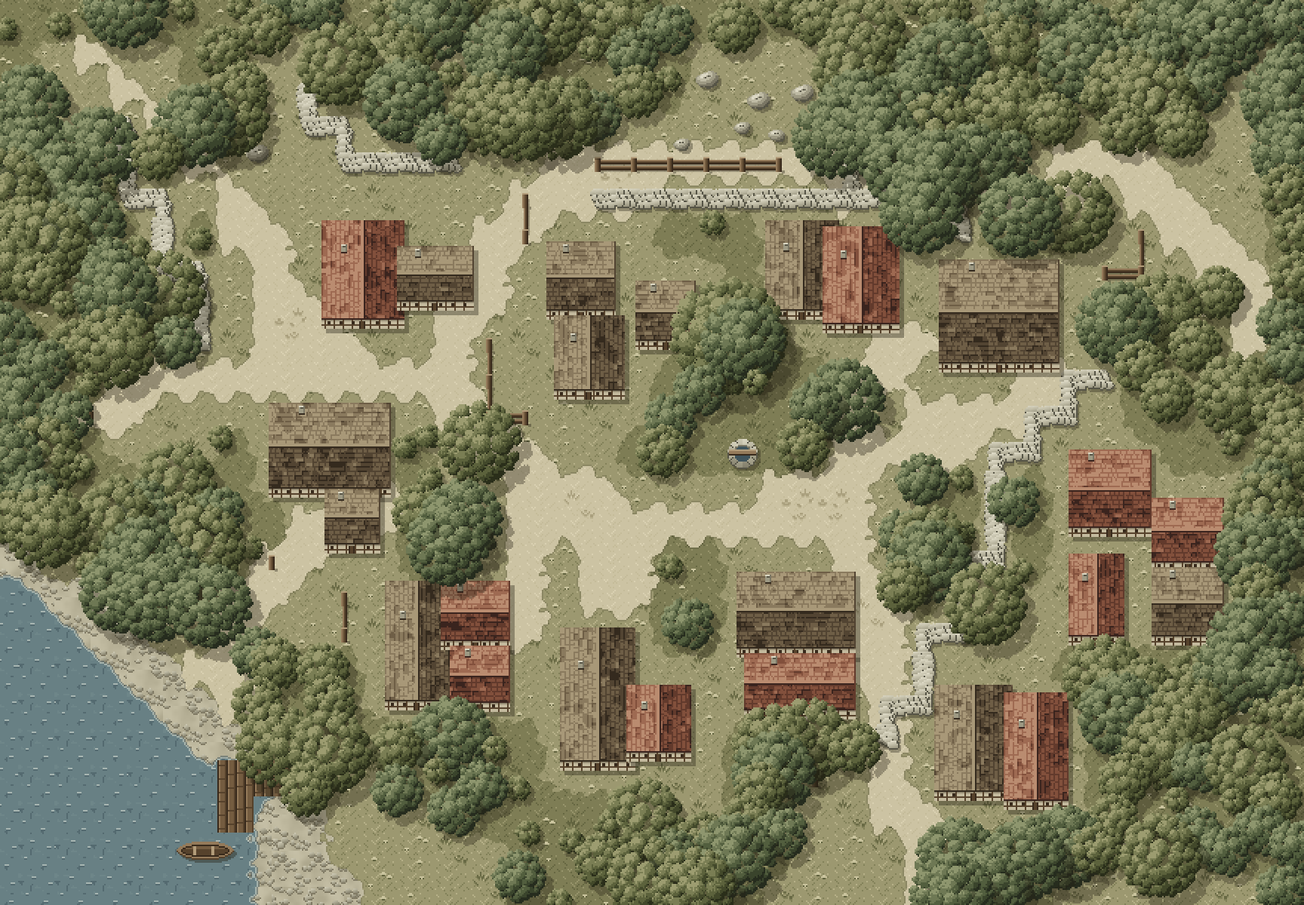
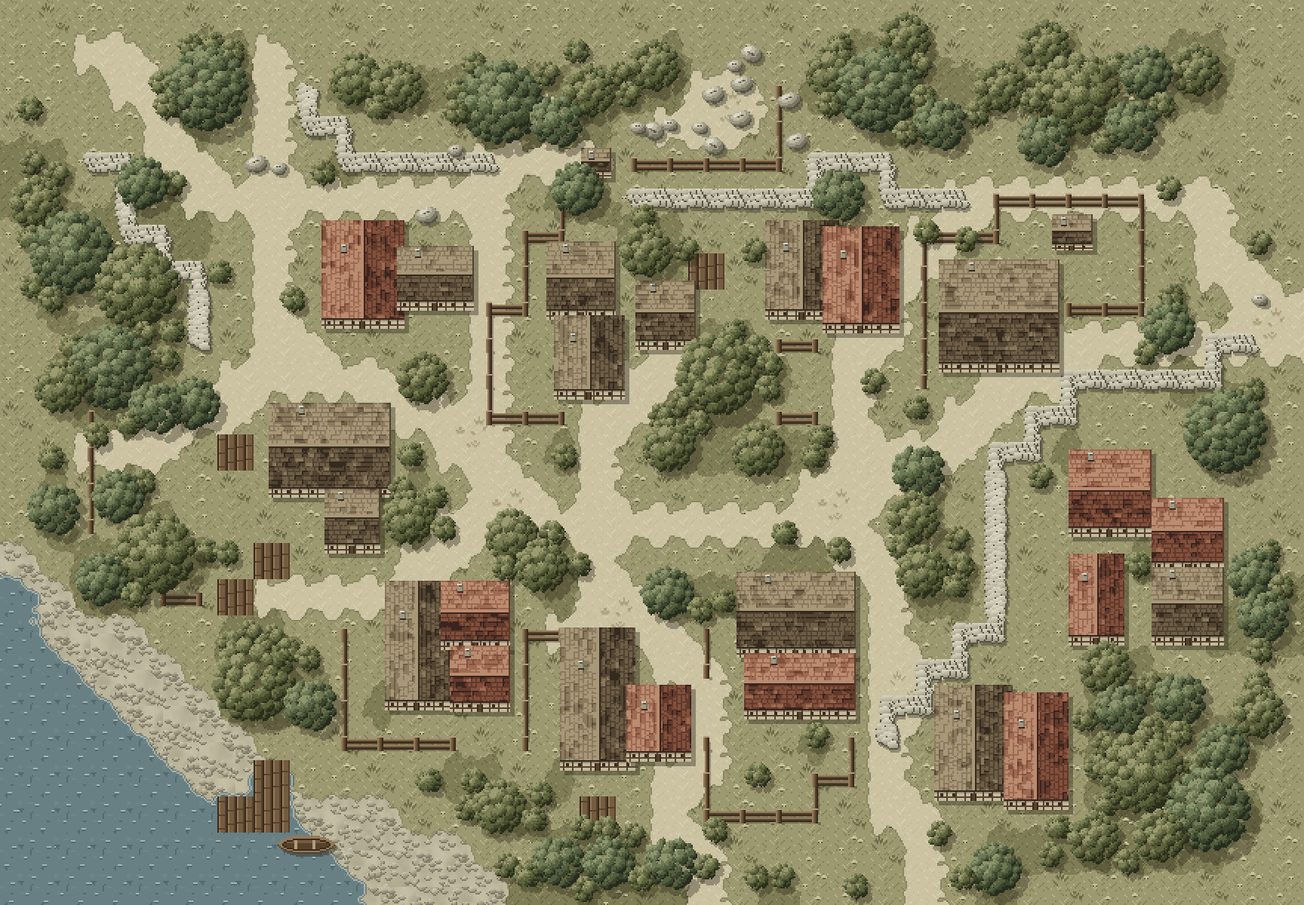
v4.62 — Cony Cirera calcat del mapa pintat
El mapa en píxel de Cony Cirera es torna a fer a partir del mapa pintat de la
wiki perquè el match cut del tauler de missions encaixi: cases, murs, tanques,
camins, pou, moll, barca, roques i cada arbre al mateix lloc que al pintat.
Fora el bosc repartit a l'atzar (hi havia massa arbres i tapaven el prat).

Claude-Session: https://claude.ai/code/session_01LkNSdR7VdcPetJYT6ejKYP

diff --git a/src/lib/places/conyberry.ts b/src/lib/places/conyberry.ts
@@ -11,7 +11,7 @@ export const CONYBERRY_PLACES: MissionPlace[] = [
     cols: 20,
     rows: 13,
     door: [12, 9],
-    back: [[12, 9], [12, 10], [14, 9], [11, 10], [12, 11]],
+    back: [[12, 9], [12, 10], [14, 9], [12, 11], [10, 10]],
     spawn: [[9, 10], [10, 10], [8, 11], [9, 11], [10, 11]],
     exit: [9, 11],
     walls: [48, 48, 480, 48, 528, 48, 912, 48, 96, 96, 288, 96, 336, 96, 432, 96, 576, 96, 864, 96, 288, 144, 336, 144, 864, 144, 912, 144, 288, 192, 336, 192, 864, 192, 912, 192, 48, 288, 192, 288, 240, 288, 480, 288, 528, 288, 576, 288, 864, 288, 912, 288, 96, 240, 192, 240, 240, 240, 288, 240, 336, 240, 432, 240, 48, 48, 48, 288, 480, 48, 480, 288, 528, 48, 528, 288, 912, 48, 912, 144, 912, 192, 912, 288, 96, 96, 96, 240, 288, 96, 288, 144, 288, 192, 288, 240, 336, 96, 336, 144, 336, 192, 336, 240, 432, 96, 432, 240, 576, 96, 576, 288, 864, 96, 864, 144, 864, 192, 864, 288, 192, 240, 192, 288, 240, 240, 240, 288, 312, 144, 312, 192, 888, 144, 888, 192, 192, 264, 240, 264],
@@ -27,7 +27,7 @@ export const CONYBERRY_PLACES: MissionPlace[] = [
     cols: 22,
     rows: 16,
     door: [16, 12],
-    back: [[16, 12], [15, 12], [16, 13], [14, 12], [15, 13]],
+    back: [[16, 12], [17, 12], [16, 13], [14, 12], [15, 13]],
     spawn: [[10, 14], [11, 14], [9, 14], [10, 15], [11, 15]],
     exit: [10, 14],
     walls: [48, 48, 1008, 48, 96, 96, 288, 96, 336, 96, 720, 96, 768, 96, 960, 96, 288, 144, 336, 144, 720, 144, 768, 144, 288, 192, 336, 192, 720, 192, 768, 192, 96, 240, 288, 240, 336, 240, 528, 240, 576, 240, 720, 240, 768, 240, 960, 240, 96, 288, 240, 288, 288, 288, 528, 288, 576, 288, 720, 288, 768, 288, 960, 288, 240, 336, 288, 336, 240, 384, 288, 384, 720, 384, 768, 384, 96, 432, 144, 432, 192, 432, 240, 432, 720, 432, 768, 432, 960, 432, 1008, 432, 96, 480, 144, 480, 192, 480, 240, 480, 960, 480, 1008, 480, 48, 624, 240, 624, 288, 624, 480, 624, 576, 624, 720, 624, 768, 624, 1008, 624, 96, 576, 240, 576, 768, 576, 960, 576, 240, 672, 480, 672, 576, 672, 768, 672, 48, 48, 48, 624, 1008, 48, 1008, 432, 1008, 480, 1008, 624, 96, 96, 96, 240, 96, 288, 96, 432, 96, 480, 96, 576, 288, 96, 288, 144, 288, 192, 288, 240, 288, 288, 288, 336, 288, 384, 288, 624, 336, 96, 336, 144, 336, 192, 336, 240, 720, 96, 720, 144, 720, 192, 720, 240, 720, 288, 720, 384, 720, 432, 720, 624, 768, 96, 768, 144, 768, 192, 768, 240, 768, 288, 768, 384, 768, 432, 768, 576, 768, 624, 768, 672, 960, 96, 960, 240, 960, 288, 960, 432, 960, 480, 960, 576, 528, 240, 528, 288, 576, 240, 576, 288, 576, 624, 576, 672, 240, 288, 240, 336, 240, 384, 240, 432, 240, 480, 240, 576, 240, 624, 240, 672, 144, 432, 144, 480, 192, 432, 192, 480, 480, 624, 480, 672, 312, 144, 312, 192, 744, 144, 744, 192, 528, 264, 576, 264, 264, 336, 264, 384, 744, 384, 744, 432, 144, 456, 192, 456, 984, 432, 984, 480, 480, 648, 528, 648, 528, 648, 576, 648],
@@ -59,7 +59,7 @@ export const CONYBERRY_PLACES: MissionPlace[] = [
     cols: 17,
     rows: 14,
     door: [6, 11],
-    back: [[6, 11], [5, 11], [6, 10], [4, 11], [5, 10]],
+    back: [[6, 11], [5, 11], [6, 10], [6, 12], [4, 11]],
     spawn: [[2, 8], [3, 8], [2, 9], [3, 9], [1, 9]],
     exit: [2, 12],
     walls: [48, 48, 768, 48, 96, 96, 384, 96, 432, 96, 720, 96, 384, 144, 432, 144, 384, 192, 528, 192, 576, 192, 720, 192, 384, 240, 528, 240, 576, 240, 720, 240, 384, 288, 432, 288, 48, 384, 144, 384, 240, 384, 336, 384, 384, 384, 480, 384, 528, 384, 768, 384, 96, 336, 144, 336, 192, 336, 336, 336, 432, 336, 720, 336, 192, 528, 288, 528, 336, 528, 528, 528, 240, 480, 288, 480, 336, 480, 480, 480, 48, 48, 48, 384, 768, 48, 768, 384, 96, 96, 96, 336, 384, 96, 384, 144, 384, 192, 384, 240, 384, 288, 384, 384, 432, 96, 432, 144, 432, 288, 432, 336, 720, 96, 720, 192, 720, 240, 720, 336, 528, 192, 528, 240, 528, 384, 528, 528, 576, 192, 576, 240, 144, 336, 144, 384, 192, 336, 192, 528, 336, 336, 336, 384, 336, 480, 336, 528, 240, 384, 240, 480, 480, 384, 480, 480, 288, 480, 288, 528, 408, 144, 408, 192, 528, 216, 576, 216, 408, 240, 408, 288, 144, 360, 192, 360, 336, 360, 384, 360, 288, 504, 336, 504],
@@ -75,7 +75,7 @@ export const CONYBERRY_PLACES: MissionPlace[] = [
     cols: 16,
     rows: 14,
     door: [18, 22],
-    back: [[18, 22], [19, 22], [22, 22], [22, 23], [21, 24]],
+    back: [[18, 22], [17, 22], [18, 23], [16, 22], [19, 23]],
     spawn: [[3, 12], [4, 12], [5, 12], [3, 13], [4, 13]],
     exit: [4, 12],
     walls: [48, 48, 384, 48, 96, 96, 336, 96, 384, 192, 624, 192, 96, 240, 192, 240, 240, 240, 336, 240, 384, 240, 576, 240, 96, 288, 192, 288, 240, 288, 336, 288, 336, 336, 384, 336, 336, 384, 384, 384, 384, 432, 576, 432, 384, 480, 624, 480, 48, 576, 192, 576, 240, 576, 384, 576, 96, 528, 192, 528, 240, 528, 336, 528, 48, 48, 48, 576, 384, 48, 384, 192, 384, 240, 384, 336, 384, 384, 384, 432, 384, 480, 384, 576, 96, 96, 96, 240, 96, 288, 96, 528, 336, 96, 336, 240, 336, 288, 336, 336, 336, 384, 336, 528, 624, 192, 624, 480, 192, 240, 192, 288, 192, 528, 192, 576, 240, 240, 240, 288, 240, 528, 240, 576, 576, 240, 576, 432, 192, 264, 240, 264, 360, 336, 360, 384, 192, 552, 240, 552],
@@ -91,7 +91,7 @@ export const CONYBERRY_PLACES: MissionPlace[] = [
     cols: 21,
     rows: 15,
     door: [24, 16],
-    back: [[24, 16], [24, 15], [24, 17], [24, 14], [24, 18]],
+    back: [[24, 16], [24, 15], [24, 17], [25, 17], [24, 14]],
     spawn: [[9, 10], [10, 10], [9, 11], [10, 11], [9, 12]],
     exit: [9, 13],
     walls: [192, 48, 816, 48, 240, 96, 768, 96, 768, 144, 816, 144, 768, 192, 816, 192, 192, 480, 432, 480, 576, 480, 624, 480, 672, 480, 768, 480, 240, 432, 432, 432, 528, 432, 624, 432, 672, 432, 768, 432, 528, 672, 816, 672, 576, 624, 768, 624, 192, 48, 192, 480, 816, 48, 816, 144, 816, 192, 816, 672, 240, 96, 240, 432, 768, 96, 768, 144, 768, 192, 768, 432, 768, 480, 768, 624, 432, 432, 432, 480, 528, 432, 528, 672, 624, 432, 624, 480, 672, 432, 672, 480, 576, 480, 576, 624, 792, 144, 792, 192, 432, 456, 480, 456, 480, 456, 528, 456, 624, 456, 672, 456],
@@ -107,7 +107,7 @@ export const CONYBERRY_PLACES: MissionPlace[] = [
     cols: 22,
     rows: 14,
     door: [24, 21],
-    back: [[24, 21], [23, 21], [24, 22], [23, 22], [24, 23]],
+    back: [[24, 21], [24, 22], [23, 22], [24, 23], [21, 21]],
     spawn: [[4, 11], [5, 11], [6, 11], [4, 12], [5, 12]],
     exit: [5, 12],
     walls: [48, 48, 576, 48, 96, 96, 288, 96, 336, 96, 528, 96, 288, 144, 336, 144, 576, 144, 1008, 144, 96, 192, 144, 192, 192, 192, 384, 192, 432, 192, 528, 192, 576, 192, 960, 192, 96, 240, 144, 240, 192, 240, 384, 240, 432, 240, 528, 240, 528, 336, 576, 336, 528, 384, 576, 384, 48, 528, 240, 528, 288, 528, 720, 528, 816, 528, 1008, 528, 96, 480, 240, 480, 288, 480, 528, 480, 576, 480, 720, 480, 816, 480, 960, 480, 48, 48, 48, 528, 576, 48, 576, 144, 576, 192, 576, 336, 576, 384, 576, 480, 96, 96, 96, 192, 96, 240, 96, 480, 288, 96, 288, 144, 288, 480, 288, 528, 336, 96, 336, 144, 528, 96, 528, 192, 528, 240, 528, 336, 528, 384, 528, 480, 1008, 144, 1008, 528, 144, 192, 144, 240, 192, 192, 192, 240, 384, 192, 384, 240, 432, 192, 432, 240, 960, 192, 960, 480, 240, 480, 240, 528, 720, 480, 720, 528, 816, 480, 816, 528, 312, 144, 312, 192, 144, 216, 192, 216, 384, 216, 432, 216, 552, 336, 552, 384, 240, 504, 288, 504, 720, 504, 768, 504, 768, 504, 816, 504],

diff --git a/src/constants/index.ts b/src/constants/index.ts
@@ -1,7 +1,7 @@
 import type { Condition, Element, SpellType } from '@/types';
 
 // Versió de l'aplicació que es mostra a les pantalles de DM i jugador.
-export const APP_VERSION = 'v4.61';
+export const APP_VERSION = 'v4.62';
 
 // Estats oficials de D&D 5e, en l'ordre de la làmina de referència.
 // Cada estat porta el seu **color propi** (abans eren gairebé tots vermells/grisos):

diff --git a/scripts/mission-conyberry.py b/scripts/mission-conyberry.py
@@ -4,12 +4,19 @@ Mapa de la missió de Conyberry (app Píxel), fet amb el full de poble (`scripts
 
     python3 scripts/mission-conyberry.py      # escriu `public/missions/conyberry/mapa.png`
 
-Recrea el mapa pintat de la campanya (el poble, el llac, els murs de pedra seca i el bosc) a
-36 × 25 caselles de 48 px. Tot el que hi ha és aquí, a mà, per poder-lo anar polint:
-  - `GRID`: el terra de cada casella (`.` prat, `F` bosc, `p` camí, `s` còdols, `w` aigua, `d` moll);
-  - murs i tanques (caselles, s'enllacen soles amb els veïns), cases (rectangles en píxels
-    d'art, 24 per casella, amb el color de la teulada), pou, barca, roques i arbres solts.
-Els arbres del bosc es reparteixen sols a les caselles `F` (llavor fixa: sempre surt igual).
+Recrea el mapa pintat de la campanya (`src/missions/assets/map-cony-cirera.webp` de la wiki) a
+36 × 25 caselles de 48 px. ⚠ Tot ha de caure **al mateix lloc** que al mapa pintat: el tauler de
+missions de la wiki passa de l'un a l'altre amb una onada de caselles (el «match cut») i qualsevol
+cosa desplaçada salta. Les mides es van prendre amb el pintat reduït a 1728 × 1200 i una graella
+de 48 px a sobre (1 px d'art = 2 px de mapa).
+  - `GRID`: el terra de cada casella (`.` prat, `F` herba fosca sota els arbres, `p` camí,
+    `s` còdols, `w` aigua, `d` moll);
+  - murs i tanques (caselles, s'enllacen soles amb els veïns), cases (rectangles en píxels d'art,
+    24 per casella, amb el color de la teulada), taulons, pou, barca i roques;
+  - `TREES`: cada arbre on és al pintat (centre en px d'art; `L` gran, `M` mitjà, `b` mata).
+    Es van treure de les taques d'arbres del pintat (una sola vegada, fora d'aquest script) i
+    es poden polir a mà. ⚠ Res de bosc repartit a l'atzar: el bosc de la v4.52–v4.61 omplia
+    totes les caselles `F` i tapava el prat, els murs i els camins que es veuen al pintat.
 La missió (on és la colla, l'ajust de color de les figuretes…) és a `src/lib/missions.ts`.
 """
 import importlib.util, os
@@ -23,35 +30,53 @@ V = importlib.util.module_from_spec(_spec); _spec.loader.exec_module(V)
 A = V.A
 
 GRID = """
-FFFFFFFFFFFFFFFFFFFFFFFFFFFFFFFFFFFF
-F.p..FF..FF...FFFFF....FFFFFFFFFFF.F
-F..p.FF..FFFFFFFFFF....FFFFFFFFFFF.F
-F...pFF.....FFFFF......FFFFFFFFFF..F
-FFF.Fp.........ppppppppp.FFF.ppp...F
-FFF...p.......pppp.....p...ppp.pp..F
-FFFF.Fpp.....pp...FFF....F.FFF..pp.F
-FFFF...p.....p......F............ppF
-FFFFF..pp...pp......F...........FFpF
-FFFFF..ppp..p.......FF..pp.....FFFpF
-FFFpppppppppp.....FFFFFpp...pp.FFFFF
-FFpp........pp....FFFFFp.pppp..FFFFF
-FFF...F....F.pp..FFFFFFpppp.....FFFF
-FFFFFFF...pF..ppp....ppp..F.F......F
-FFFFFFFFpppF..pppppppppp.FF.F......F
-s.FFFFFpp..FF.p.ppFF...p.F..F.....FF
-wssFFFpp......p.ppFF...ppF.F......FF
-wwss..p.......p...FF...pp.........FF
-wwwssppFFF.............pp....FFFFFFF
-wwwwsspFFF..............p.....FFFFFF
-wwwwwssFFFFFFFF.....FFFFp.....FFFFFF
-wwwwwwddF..FFFF.....FF..p.....FFFFFF
-wwwwwwdss...FFFFFF..FF..pp....FFFFFF
-wwwwwwwss.....FFFFFFFF...pFFFFFFFFFF
-wwwwwwwsss....FFFFFFF....pFFF......F
+....................................
+..pp.FFp..........F....FFF..FF..FF..
+...ppFFp.FFFFFFFFFFpp.FFFFFFFFFFFF..
+....pF.p.....FFFF.ppp...FFF..FFF....
+FF..pp.p.F...pppp...................
+FF.FFppppppppp.FF.....FF..pppppppp..
+.FFFFF.p.....p...FF......pp......p..
+.FFFF..p.....p....F.....pp.......pp.
+.F.FF..p.....p..........p.......F.pp
+..FFF..pp....p....pFF..pp....ppppppp
+.FFFF.pppppF.p...ppFFF.p...ppp..FF..
+..FFppp...pppp..ppFFF..p..pp.....FF.
+..ppp.......pp.Fp.FFFFFpppp..F...FF.
+.F.F.......F.pp.p.....pppF..........
+.F..F.....FFpppppppppppp.F..........
+s.FFFF.....pp.FFp....FFppFF....F....
+wsFF...ppppp...FppFFF.F.pFF.......FF
+wsss..FF.......pppp.....p........FFF
+wwsss.FFF..FF.....pp....pp....FF....
+wwwsssFFF.F........p....pp....FFF.F.
+wwwwsss............p..F.p.....FFFFF.
+wwwwwssd....FF.F..pp....p.....FFFF..
+wwwwwwddsss..FF...p.....pp....FFFFF.
+wwwwwwwwwssss..FFFpp.....p.FFFFFFF..
+wwwwwwwwwwssssFFFFFp.F...p.F........
 """.strip().splitlines()
-WALLS = [(2, 3), (3, 3), (3, 4), (3, 5), (4, 5), (4, 6), (4, 7), (5, 7), (5, 8), (5, 9), (8, 2), (8, 3), (9, 3), (9, 4), (10, 4), (11, 4), (12, 4), (16, 5), (17, 5), (18, 5), (19, 5), (20, 5), (21, 5), (22, 5), (23, 4), (23, 5), (24, 4), (24, 5), (24, 19), (24, 20), (25, 5), (25, 17), (25, 18), (25, 19), (26, 5), (26, 6), (26, 15), (26, 16), (26, 17), (27, 12), (27, 13), (27, 14), (27, 15), (28, 11), (28, 12), (29, 10), (29, 11), (30, 10)]
-FENCES = [(2, 11), (7, 15), (9, 16), (9, 17), (13, 9), (13, 10), (13, 11), (14, 5), (14, 6), (14, 11), (16, 4), (17, 4), (18, 4), (19, 4), (20, 4), (21, 4), (22, 21), (30, 7), (31, 6), (31, 7)]
+WALLS = [
+    (2, 4), (3, 4), (3, 5), (3, 6), (4, 6), (4, 7), (5, 7), (5, 8), (5, 9),                       # el llarg de l'oest
+    (8, 2), (8, 3), (9, 3), (9, 4), (10, 4), (11, 4), (12, 4), (13, 4),                            # dalt a l'esquerra
+    (17, 5), (18, 5), (19, 5), (20, 5), (21, 5), (22, 5), (22, 4), (23, 4), (24, 4), (24, 5), (25, 5), (26, 5),   # dalt
+    (34, 9), (33, 9), (33, 10), (32, 10), (31, 10), (30, 10), (29, 10), (29, 11), (28, 11), (28, 12), (27, 12),
+    (27, 13), (27, 14), (27, 15), (27, 16), (27, 17), (26, 17), (26, 18), (25, 18), (25, 19), (24, 19), (24, 20),   # de l'est (s'atura abans de la porta de l'hostal, a (24, 21))
+]
+FENCES = [
+    (17, 4), (18, 4), (19, 4), (20, 4), (21, 4), (21, 3), (21, 2),                                 # el cementiri
+    (15, 5), (15, 6), (14, 6), (14, 7), (14, 8), (13, 8), (13, 9), (13, 10), (13, 11), (14, 11), (15, 11),   # la casa del batlle
+    (21, 9), (22, 9), (21, 11), (22, 11),                                                          # vora el pou
+    (25, 6), (26, 6), (27, 6), (27, 5), (28, 5), (29, 5), (30, 5), (31, 5), (31, 6), (31, 7), (31, 8), (30, 8), (29, 8),
+    (25, 7), (25, 8), (25, 9), (25, 10),                                                           # el graner
+    (2, 11), (2, 12), (2, 13), (2, 14), (4, 16), (5, 16),                                          # l'oest i la riba
+    (9, 17), (9, 18), (9, 19), (9, 20), (10, 20), (11, 20), (12, 20),
+    (15, 17), (14, 17), (14, 18), (14, 19), (14, 20),
+    (19, 17), (19, 18), (19, 20), (19, 21), (19, 22), (20, 22), (21, 22), (22, 22), (22, 21), (23, 21), (23, 20),
+]
+WOOD = [(6, 12), (6, 16), (7, 15), (19, 7), (16, 22)]   # taulons: passeres, escales i el portal de fusta
 # Cases: cada una és una llista de rectangles (x0, y0, x1, y1 en píxels d'art, teulada).
+# ⚠ L'ordre és el de `house` a `scripts/mission-conyberry-llocs.py`: les noves, al final.
 HOUSES = [
     [(213, 146, 268, 218, 'red'), (263, 163, 314, 206, 'brown')],
     [(362, 160, 408, 212, 'brown'), (367, 209, 414, 265, 'brown'), (421, 186, 461, 232, 'brown')],
@@ -63,12 +88,49 @@ HOUSES = [
     [(488, 379, 567, 436, 'brown'), (493, 433, 567, 477, 'red')],
     [(708, 298, 763, 356, 'red'), (763, 330, 811, 379, 'red'), (708, 367, 745, 428, 'red'), (763, 376, 811, 428, 'brown')],
     [(619, 454, 671, 531, 'brown'), (665, 459, 708, 537, 'red')],
+    [(697, 142, 724, 166, 'brown')],      # el cobert del tancat del graner
+    [(385, 98, 405, 118, 'brown')],       # el porxo del cementiri
 ]
-WELL = (20, 12)
-BOAT = (112, 552)
-BIGTREE = (487, 229)
-ROCKS = [(458, 42), (481, 74), (441, 85), (160, 91), (22, 355), (521, 51), (492, 56), (504, 79)]   # px d'art, cantonada
-TREES = [(321, 298), (269, 298), (613, 321), (619, 367), (562, 270), (172, 436), (103, 350), (309, 350), (516, 517)]   # px d'art, centre
+WELL = (502, 297)                         # centre, px d'art
+BOAT = (179, 548)                         # cantonada, px d'art
+ROCKS = [(171, 110), (186, 113), (303, 101), (284, 144), (488, 45), (474, 64), (493, 57), (465, 86), (445, 84),
+         (434, 88), (474, 98), (492, 80), (524, 68), (424, 86), (499, 37), (529, 95), (836, 200)]   # centre, px d'art
+TREES = [
+    (601, 28, 'M'), (141, 31, 'b'), (557, 31, 'b'), (127, 32, 'b'), (694, 33, 'M'), (383, 35, 'b'),
+    (155, 36, 'b'), (315, 44, 'b'), (740, 44, 'b'), (610, 45, 'b'), (435, 46, 'M'), (794, 49, 'M'),
+    (363, 50, 'b'), (411, 50, 'b'), (553, 50, 'M'), (761, 51, 'M'), (687, 53, 'b'), (238, 55, 'M'),
+    (108, 57, 'b'), (265, 60, 'M'), (665, 60, 'M'), (303, 61, 'b'), (140, 63, 'L'), (392, 63, 'M'),
+    (417, 64, 'b'), (585, 64, 'L'), (613, 66, 'b'), (717, 67, 'L'), (686, 68, 'b'), (550, 71, 'b'),
+    (771, 71, 'b'), (111, 72, 'b'), (335, 72, 'L'), (21, 73, 'b'), (251, 73, 'b'), (303, 76, 'b'), (648,
+    77, 'b'), (371, 83, 'M'), (625, 85, 'M'), (752, 86, 'M'), (601, 90, 'b'), (694, 96, 'M'), (732, 96,
+    'b'), (22, 109, 'b'), (215, 116, 'b'), (38, 117, 'b'), (116, 123, 'b'), (96, 124, 'M'), (775, 126,
+    'b'), (384, 128, 'M'), (558, 132, 'M'), (26, 137, 'M'), (427, 145, 'b'), (615, 155, 'b'), (21, 159,
+    'b'), (641, 160, 'b'), (835, 162, 'b'), (455, 166, 'b'), (500, 167, 'b'), (430, 169, 'M'), (51, 172,
+    'L'), (146, 182, 'b'), (23, 191, 'b'), (94, 194, 'L'), (777, 198, 'b'), (35, 200, 'b'), (195, 200,
+    'b'), (776, 220, 'M'), (115, 221, 'b'), (487, 221, 'b'), (96, 223, 'b'), (49, 231, 'b'), (503, 232,
+    'b'), (760, 235, 'b'), (111, 239, 'b'), (511, 243, 'b'), (77, 248, 'L'), (478, 252, 'L'), (282, 253,
+    'M'), (579, 254, 'b'), (42, 259, 'M'), (510, 259, 'b'), (831, 260, 'b'), (130, 270, 'M'), (451, 270,
+    'b'), (608, 272, 'b'), (105, 273, 'M'), (438, 277, 'b'), (86, 282, 'b'), (464, 282, 'b'), (65, 290,
+    'b'), (815, 290, 'L'), (545, 291, 'b'), (445, 298, 'M'), (504, 301, 'M'), (273, 303, 'b'), (375,
+    304, 'b'), (540, 304, 'b'), (35, 305, 'b'), (611, 315, 'M'), (690, 317, 'b'), (96, 321, 'b'), (266,
+    325, 'b'), (289, 331, 'b'), (80, 332, 'M'), (38, 340, 'M'), (273, 346, 'M'), (607, 346, 'M'), (295,
+    352, 'b'), (367, 355, 'b'), (521, 355, 'b'), (341, 358, 'M'), (635, 358, 'b'), (598, 364, 'b'),
+    (557, 366, 'b'), (137, 367, 'b'), (841, 367, 'b'), (151, 368, 'b'), (105, 371, 'L'), (384, 376,
+    'b'), (638, 376, 'b'), (755, 376, 'b'), (336, 378, 'b'), (361, 378, 'M'), (613, 382, 'M'), (832,
+    384, 'M'), (69, 387, 'M'), (634, 390, 'b'), (850, 391, 'b'), (90, 396, 'b'), (444, 396, 'M'), (480,
+    400, 'b'), (465, 406, 'b'), (839, 411, 'M'), (166, 421, 'b'), (181, 424, 'b'), (154, 428, 'b'),
+    (192, 433, 'b'), (836, 433, 'b'), (205, 438, 'b'), (734, 445, 'M'), (834, 454, 'b'), (171, 455,
+    'L'), (763, 455, 'b'), (784, 466, 'M'), (208, 470, 'M'), (745, 473, 'M'), (836, 475, 'M'), (720,
+    478, 'b'), (764, 485, 'b'), (783, 488, 'b'), (542, 489, 'b'), (732, 495, 'b'), (812, 500, 'M'),
+    (728, 510, 'b'), (792, 510, 'b'), (503, 515, 'b'), (760, 516, 'L'), (285, 519, 'b'), (315, 519,
+    'b'), (359, 528, 'b'), (733, 535, 'b'), (310, 537, 'b'), (333, 538, 'M'), (804, 541, 'L'), (355,
+    545, 'b'), (387, 550, 'b'), (702, 550, 'b'), (403, 551, 'b'), (475, 552, 'b'), (623, 554, 'b'),
+    (420, 555, 'b'), (770, 557, 'M'), (727, 558, 'M'), (697, 568, 'b'), (748, 573, 'b'), (372, 574,
+    'M'), (336, 575, 'b'), (405, 575, 'M'), (447, 575, 'M'), (469, 576, 'b'), (661, 579, 'M'), (350,
+    582, 'b'), (519, 582, 'b'), (502, 583, 'b'), (639, 583, 'b'), (426, 584, 'b'), (568, 589, 'b'),
+    (388, 591, 'b')
+]
+TREE_KIND = {'L': 'tree_l', 'M': 'tree_m', 'b': 'bush'}
 
 COLS, ROWS = len(GRID[0]), len(GRID)
 H = lambda c, r: ((c * 73856093) ^ (r * 19349663)) & 0xffffffff
@@ -100,28 +162,20 @@ def render():
     for r in range(ROWS):
         for c in range(COLS):
             if GRID[r][c] == 'd': V.over(cv, V.dock(), c * A, r * A)
+    for c, r in WOOD: V.over(cv, V.dock(), c * A, r * A)
     walls, fences = set(WALLS), set(FENCES)
     for c, r in sorted(walls, key=lambda p: p[1]): V.over(cv, V.stonewall(bits(walls, c, r)), c * A, r * A)
     for c, r in sorted(fences, key=lambda p: p[1]): V.over(cv, V.fence(bits(fences, c, r)), c * A, r * A)
     for i, hs in enumerate(HOUSES):
         for k, (x0, y0, x1, y1, kd) in enumerate(hs): V.roof(cv, x0, y0, x1, y1, kd, seed=i * 10 + k)
-    V.over(cv, V.well(), WELL[0] * A, WELL[1] * A)
+    w = V.well(); V.over(cv, w, WELL[0] - w.shape[1] // 2, WELL[1] - w.shape[0] // 2)
     V.over(cv, V.boat(), *BOAT)
     rng = np.random.default_rng(7)
-    for x, y in ROCKS: V.over(cv, Tr['rock'][rng.integers(4)], x, y)
-    # bosc: arbres repartits a les caselles F, lluny de les cases
-    hc = house_cells(); pts = []
-    for _ in range(6000):
-        x, y = rng.uniform(0, COLS * A), rng.uniform(0, ROWS * A)
-        if GRID[int(y // A)][int(x // A)] != 'F': continue
-        if any(abs(x - (c + .5) * A) < A * 1.1 and abs(y - (r + .5) * A) < A * 1.1 for c, r in hc): continue
-        if abs(x - (WELL[0] + .5) * A) < A * 1.6 and abs(y - (WELL[1] + .5) * A) < A * 1.6: continue   # el pou es veu
-        if any((x - px) ** 2 + (y - py) ** 2 < (0.9 * A) ** 2 for px, py, _ in pts): continue
-        pts.append((x, y, rng.choice(['tree_l', 'tree_l', 'tree_m', 'tree_m', 'bush'])))
-    for x, y in TREES: pts.append((x, y, rng.choice(['tree_m', 'bush', 'tree_l'])))
-    pts.append((*BIGTREE, 'tree_xl'))
-    for x, y, k in sorted(pts, key=lambda p: p[1]):
-        t = Tr[k][rng.integers(len(Tr[k]))]
+    for x, y in ROCKS:
+        t = Tr['rock'][rng.integers(4)]; V.over(cv, t, x - t.shape[1] // 2, y - t.shape[0] // 2)
+    # arbres de dalt a baix: els de sota tapen la copa dels de sobre, com al pintat
+    for i, (x, y, k) in enumerate(sorted(TREES, key=lambda p: p[1])):
+        t = Tr[TREE_KIND[k]][H(x, y) % len(Tr[TREE_KIND[k]])]
         V.over(cv, t, int(x - t.shape[1] / 2), int(y - t.shape[0] / 2))
     return cv
 

diff --git a/CLAUDE.md b/CLAUDE.md
@@ -506,7 +506,8 @@ binaris (fons, expositor) van com a frame `*_META` JSON + frame binari.
 ### Missions (`src/lib/missions.ts`) — mapa preparat + colla + ajust de color
 - **Una missió és una partida feta**: `missionState(m, blob)` retorna l'estat en el format de la partida (fons com a `bgBlob`, graella, colla de `DEFAULT_PARTY` a les caselles de `m.party`, tot el que no és de la missió buit) i `openMission` (`DMView`) el carrega amb `applySessionState`, posa l'app Píxel i el mode Jugar. Així desar, desat automàtic i sincronització funcionen sense res de nou. Entrades: «Missió · …» a la pantalla de benvinguda i secció «Missions» del menú **Partida**.
 - La missió `conyberry` es diu **Cony Cirera** (el nom de la wiki); l'`id` i la carpeta es queden igual perquè la wiki hi apunta (`missions/conyberry/mapa.png`).
-- **De moment al repositori** (decisió del propietari: més endavant aniran al back office): el mapa és `public/missions/<id>/mapa.png`, generat amb `scripts/mission-<id>.py` (Conyberry: disposició a mà dins del script —`GRID` de caràcters, murs, tanques, cases en px d'art, pou, barca, roques, arbres— amb el full de poble). Una missió nova: script + PNG + entrada a `MISSIONS`.
+- **De moment al repositori** (decisió del propietari: més endavant aniran al back office): el mapa és `public/missions/<id>/mapa.png`, generat amb `scripts/mission-<id>.py` (Conyberry: disposició a mà dins del script —`GRID` de caràcters, murs, tanques, taulons, cases en px d'art, pou, barca, roques i un a un els arbres (`TREES`)— amb el full de poble). Una missió nova: script + PNG + entrada a `MISSIONS`.
+  - ⚠ **Cony Cirera és el calc del mapa pintat de la wiki** (`src/missions/assets/map-cony-cirera.webp`, reduït a 1728×1200 amb una graella de 48 px a sobre): el tauler de missions hi passa amb una onada de caselles (el «match cut») i tot el que estigui desplaçat salta. Cases, murs, tanques, camins, pou, moll i barca són on són al pintat, i cada arbre també (v4.62, tret de les taques d'arbres del pintat). ⚠ **Res de bosc repartit a l'atzar**: fins a la v4.61 s'omplien d'arbres totes les caselles `F` i l'usuari va trobar que hi havia massa arbres i que no lligava amb l'original. Per tocar-ne res, comparar-ho superposant els dos mapes (50%). `F` ara només és l'herba fosca de sota els arbres (el script dels llocs encara la tracta com a no trepitjable). Les cases noves van al final de `HOUSES` (els llocs hi apunten per índex).
 - **Ajust de color de les figuretes** (`FigureGrade` a `types`; `setFigureGrade`/`getFigureGrade` a `lib/sprites/pack.ts`): el paquet és molt saturat i sobre un mapa de tons apagats «canta». `sheet(id)` retorna, per als fulls de criatures (`heroes`, `heroes_v1/v2`, `dragon`), una còpia ajustada (saturació, multiplicador càlid, guany, negres → tinta del mapa), feta **un sol cop per full** amb `getImageData` (no `ctx.filter`: Safari). ⚠ Les memòries cau per figureta (`_gray`, `_thumbs` de `draw.ts`; `_strips` de `states.ts`) porten `figureGradeKey()` dins de la clau: una memòria cau nova de figuretes l'ha de portar també, si no es quedaria amb els colors d'abans.
   - **És del mapa, no de la UI**: viu a `pack.ts` (no en un ref del DM), es desa a la partida (`figureGrade`), `loadBg` el treu (un fons nou no en té) i `applySessionState` el torna a posar si la partida en porta. Viatja a les pantalles de jugador com a camp lleuger del `STATE` i del `STRUCT` (la API el reenvia opac: cap canvi a la API).
   - `off: true` = el mapa en té però està apagat: interruptor «Figuretes a to amb el mapa» del menú **Vista** (només surt si el mapa en porta). Afecta totes les pantalles.

diff --git a/README.md b/README.md
@@ -70,6 +70,13 @@ El manifest de noms i posicions (`src/lib/sprites/manifest.ts`) es regenera amb
 
 ## Changelog
 
+### v4.62 — Cony Cirera calcat del mapa pintat
+- El **mapa en píxel de Cony Cirera** es torna a fer a partir del mapa pintat de la wiki, perquè el «match cut» del tauler de missions (l'onada que passa de l'un a l'altre) encaixi: cada cosa és al mateix lloc a tots dos.
+- **Menys bosc**: abans s'omplien d'arbres a l'atzar totes les caselles de bosc i el bosc tapava el prat, els murs i els camins. Ara cada arbre, mata o grup d'arbres és on és al pintat (tret de les seves taques d'arbres).
+- **Camins** d'una casella d'ample, pel traçat del pintat; **murs de pedra seca** i **tanques** resseguits casella a casella (el mur llarg de l'oest, el de dalt, el de l'est fins a l'hostal, els tancats de la casa del batlle, del graner, del cementiri i del sud).
+- Pou, barca, moll, roques del cementiri i taulons (passeres, escales i el portal de fusta) al seu lloc; dos coberts nous (el del tancat del graner i el porxo del cementiri).
+- En sortir d'un lloc, la colla surt a les mateixes portes (només canvien algunes de les caselles del costat, que ara són lliures).
+
 ### v4.61 — Més mòbil: combat, eines i figuretes
 - **Barra de combat** a l'amplada de la pantalla del mòbil, amb botons d'icona (Següent, Ronda, acabar). Mantenir premut un xip recupera el seu torn (com el clic dret).
 - **Barra d'eines horitzontal a dalt** al mòbil (ocupa menys i deixa la de baix per al combat); els panells (dibuix, llums…) s'obren a sota i sense finestretes d'ajuda enganxades.
